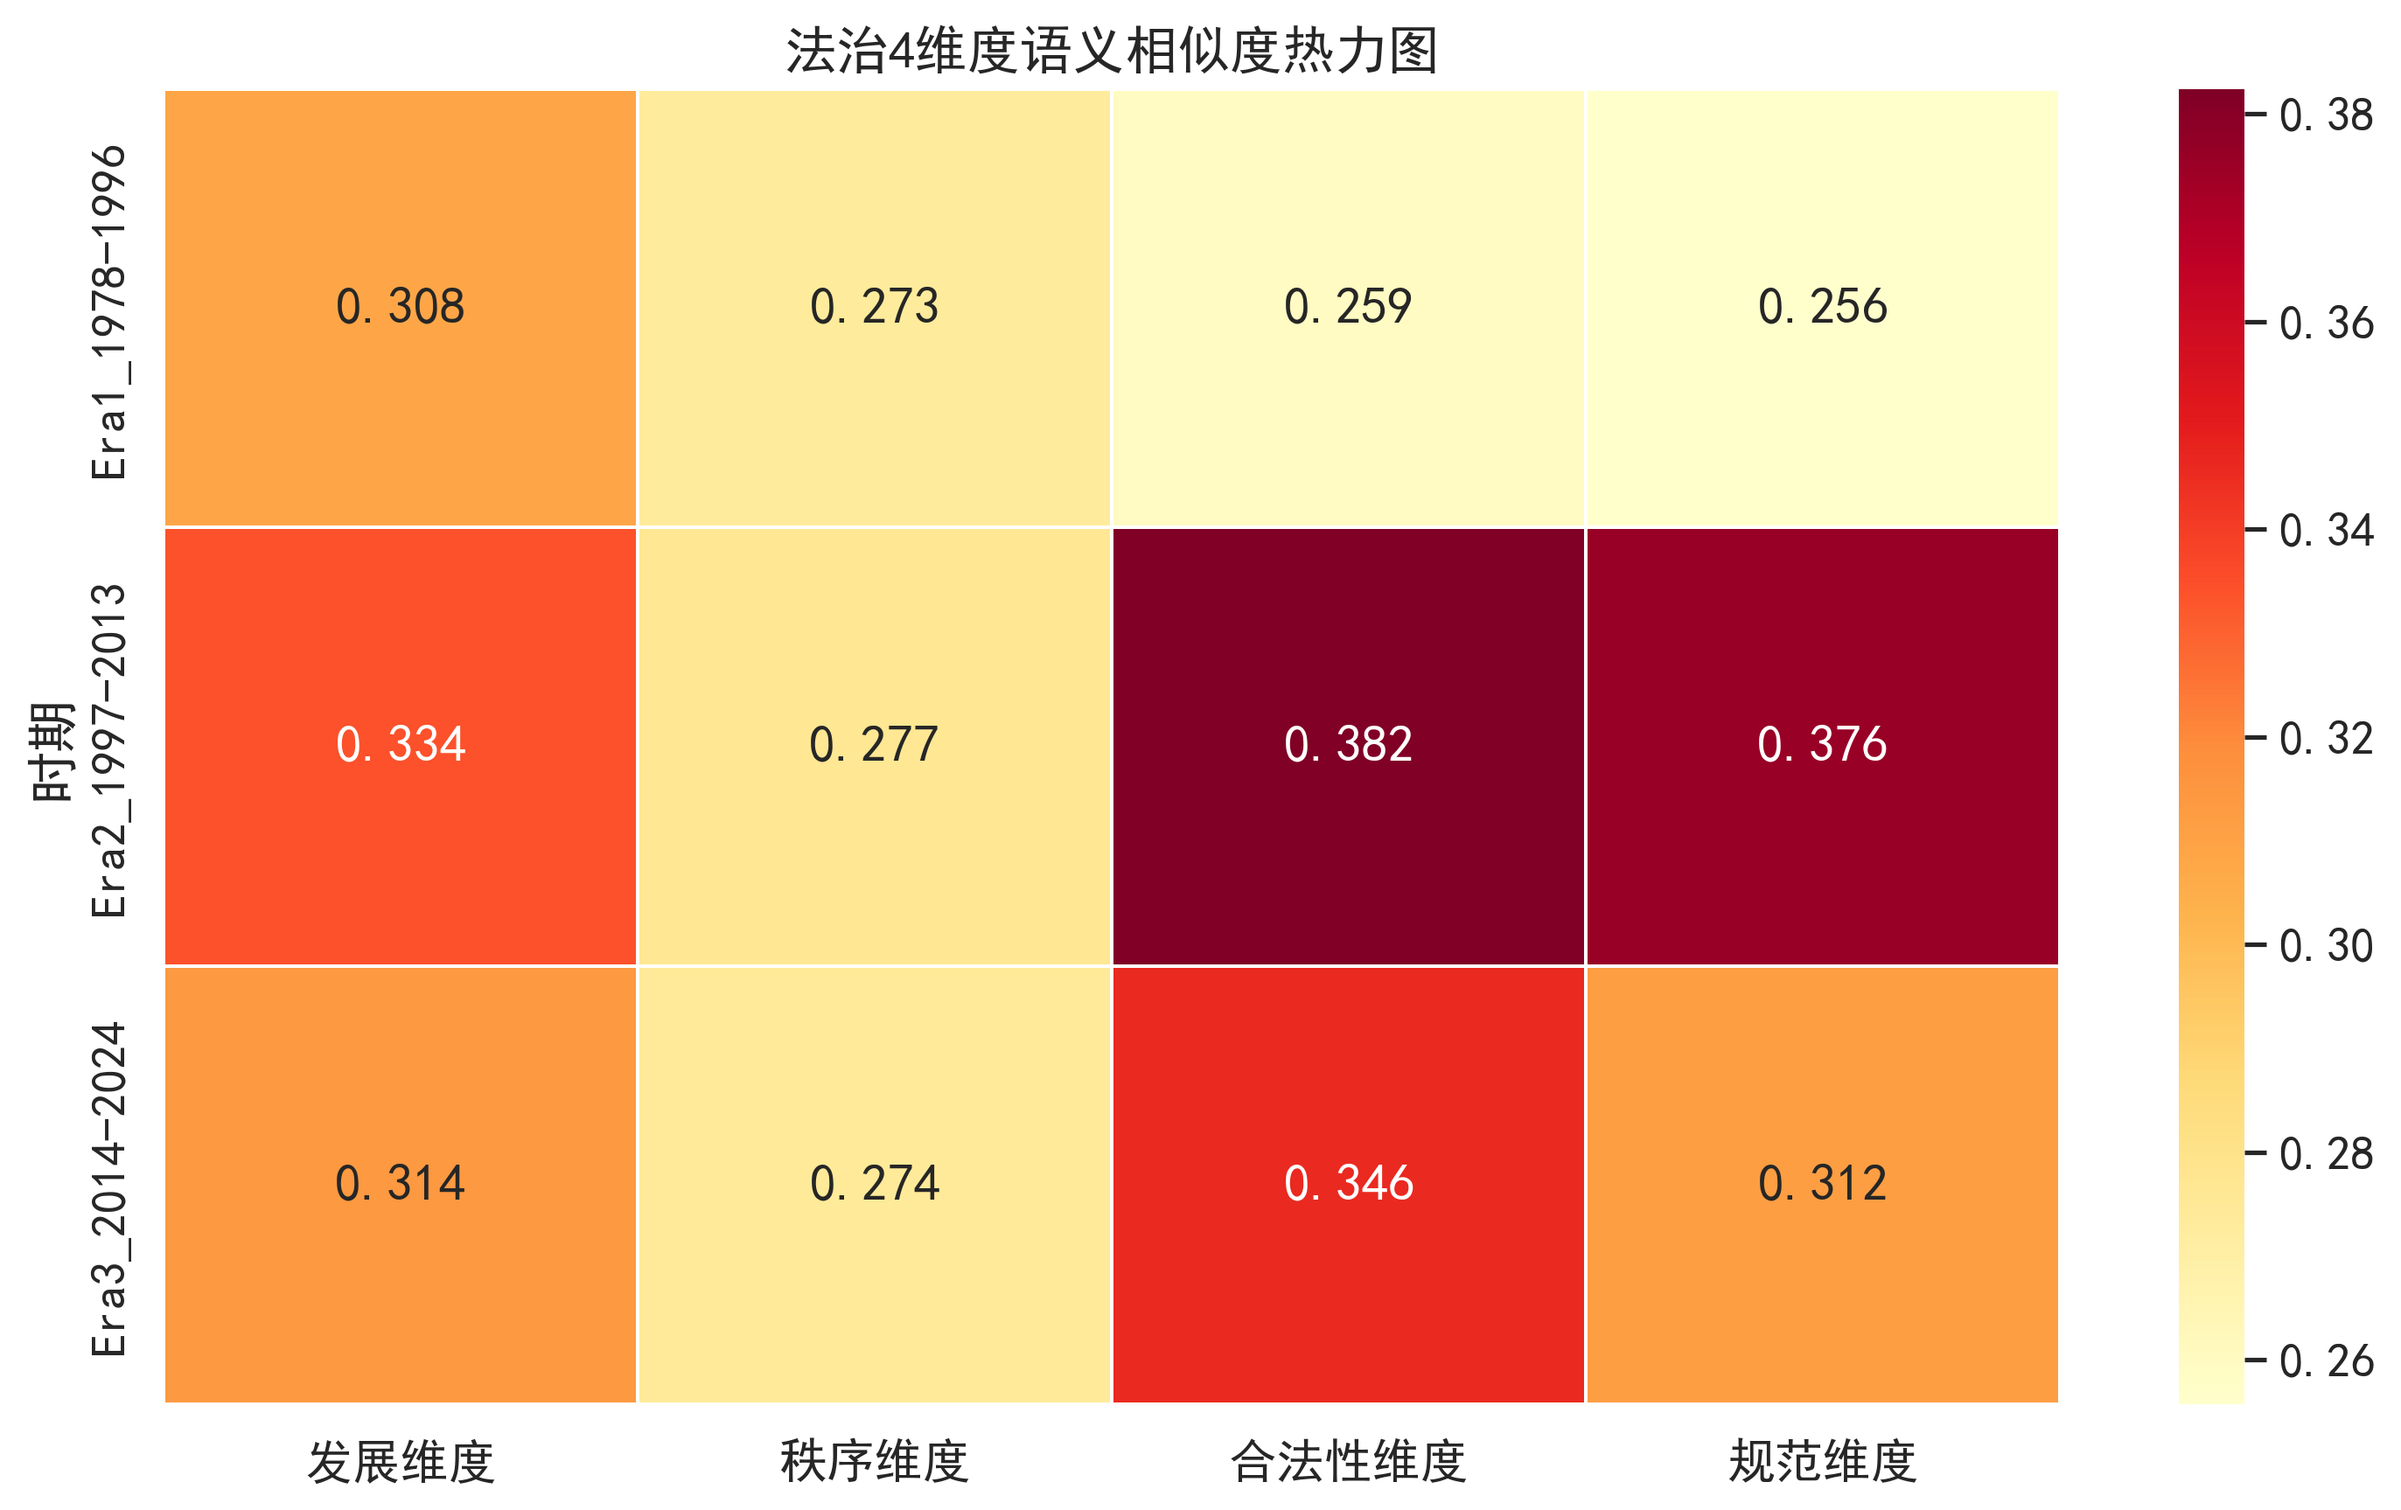
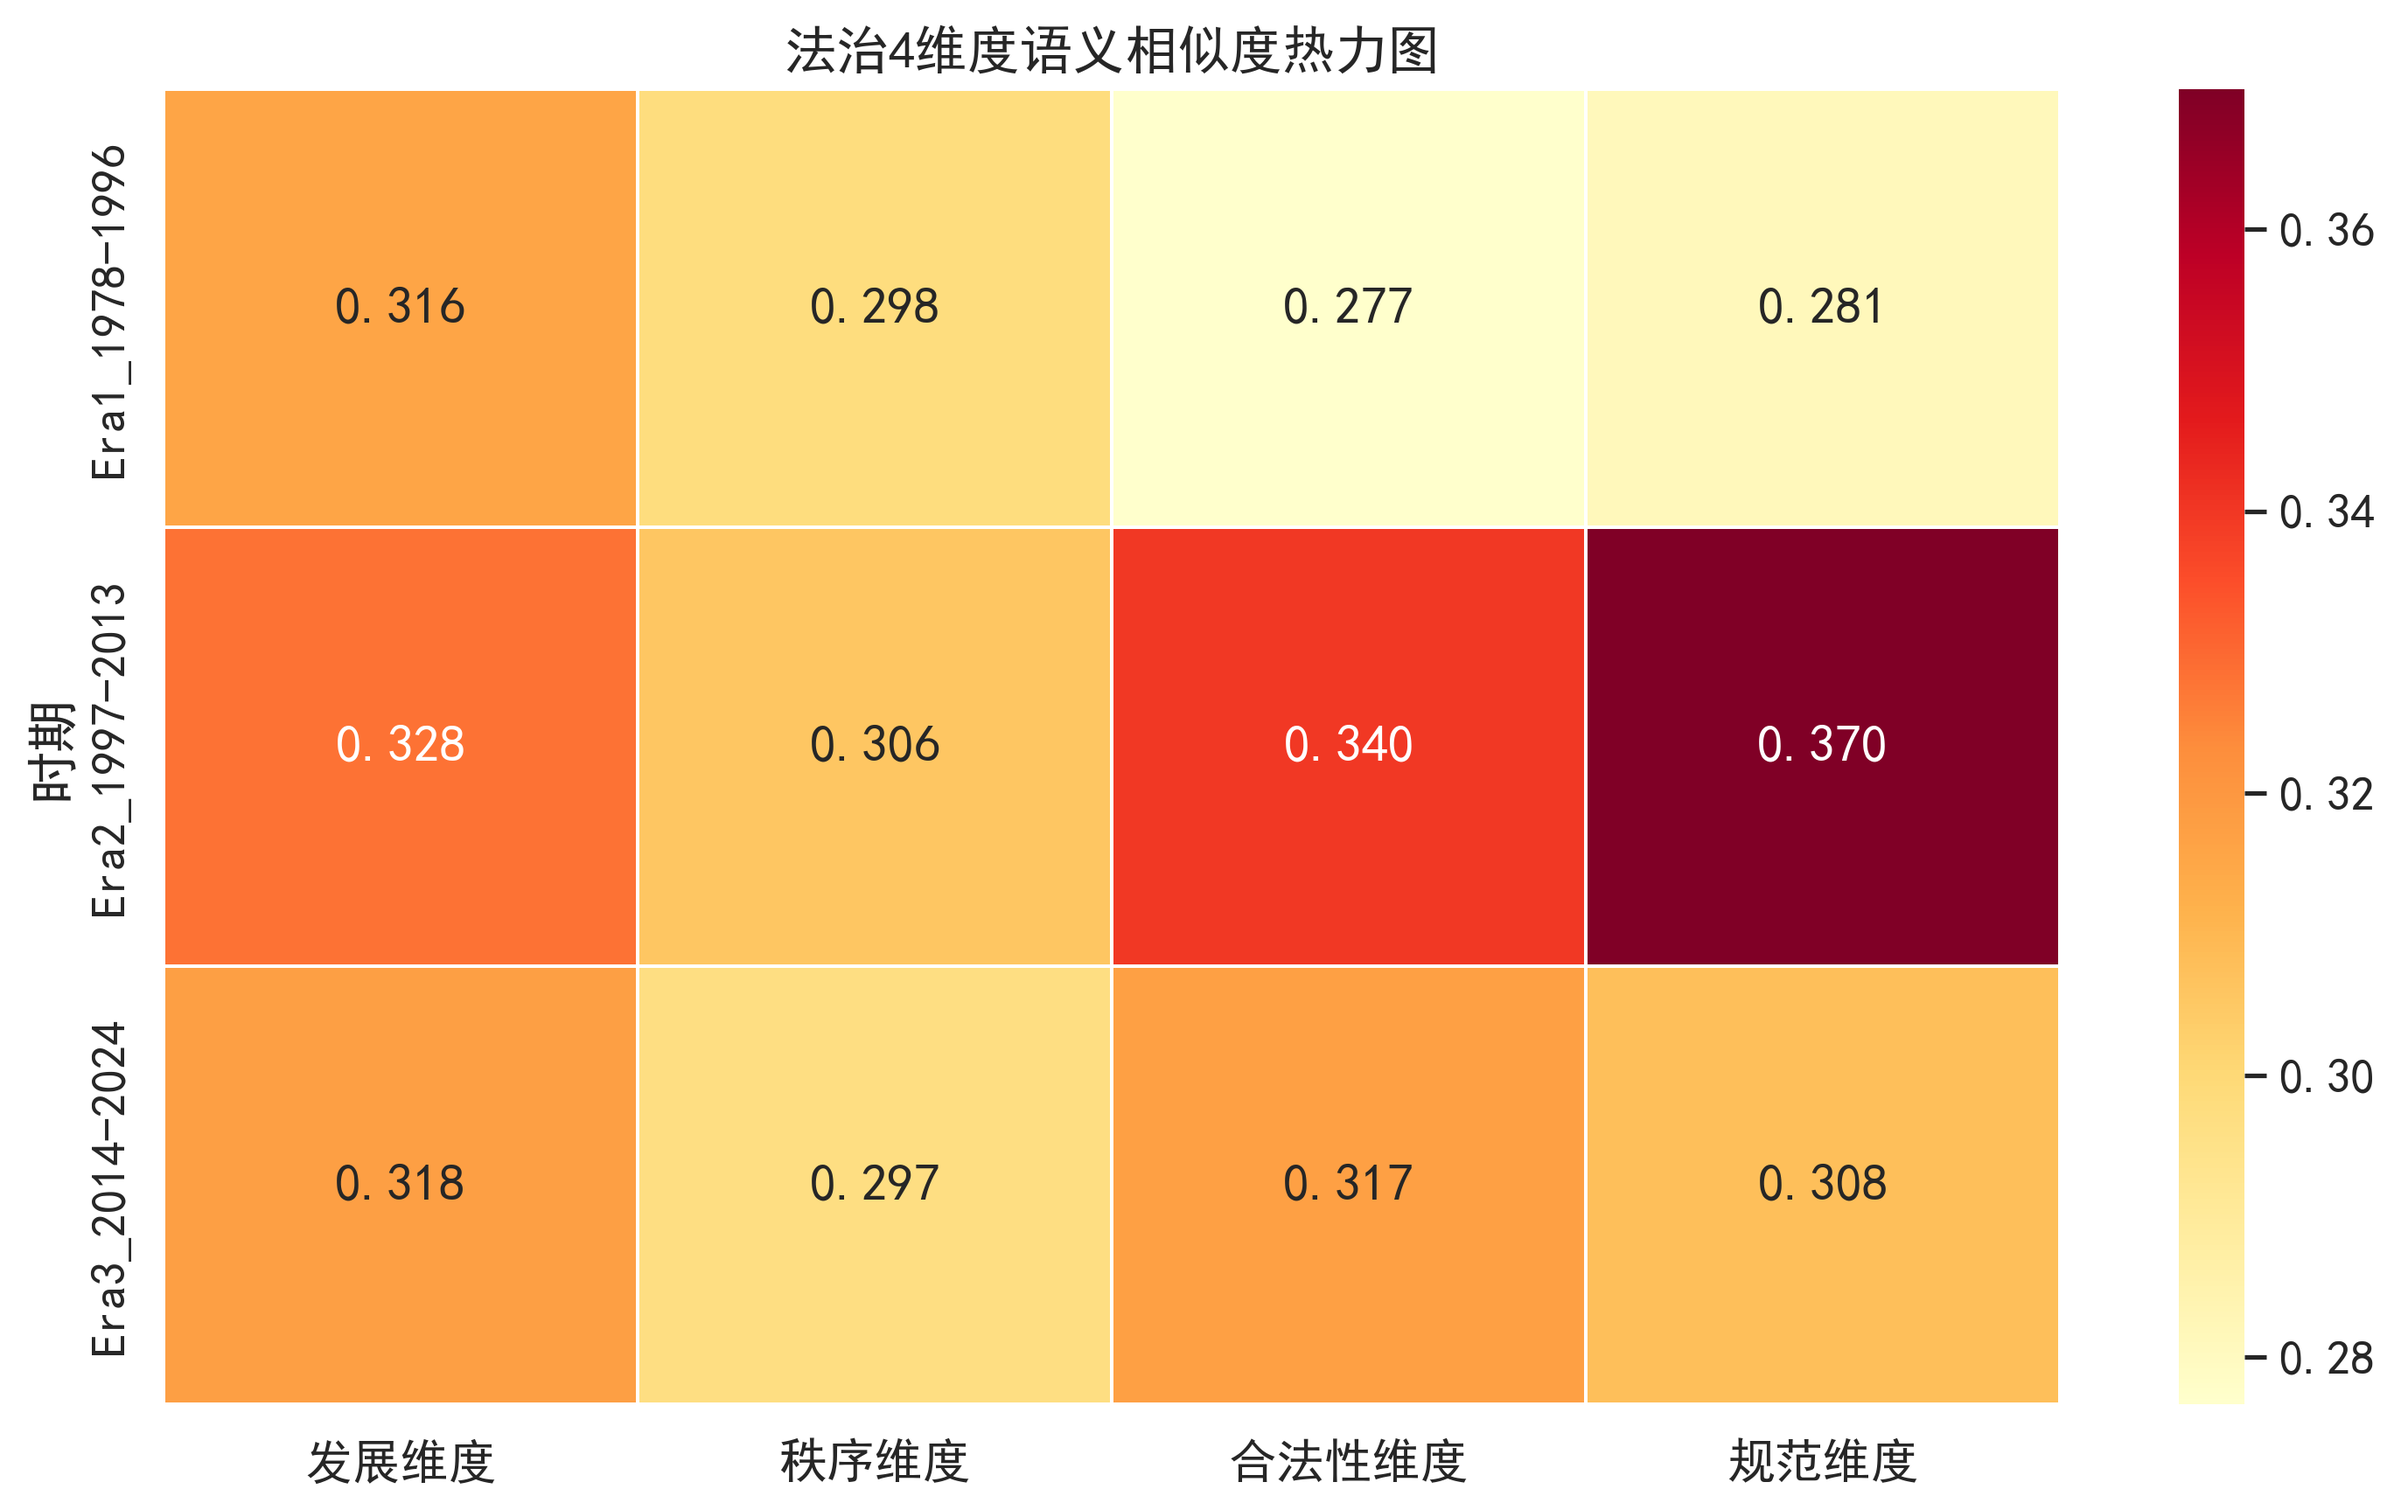
update expand topic word list

diff --git a/notebooks/dimension_analysis.py b/notebooks/dimension_analysis.py
@@ -402,8 +402,8 @@ def main():
     topic_word_dir = PROJECT_ROOT / "topic_word"
     
     # 2. 分析专家定义的维度词表
-    analyzer.run_analysis(topic_word_dir / "dimension_words_3d.txt")
-    analyzer.run_analysis(topic_word_dir / "dimension_words_4d.txt")
+    # analyzer.run_analysis(topic_word_dir / "dimension_words_3d.txt")
+    # analyzer.run_analysis(topic_word_dir / "dimension_words_4d.txt")
     
     # 3. 扩展4D词表并保存
     print("\n=== 扩展4D词表 ===")
@@ -412,8 +412,8 @@ def main():
         expanded_4d_words = analyzer.expand_dimension_words_by_similarity(
             dimension_words_4d, 
             target_word="法治",
-            similarity_threshold=0.3,
-            max_words_per_dim=50
+            similarity_threshold=0.25,
+            max_words_per_dim=100
         )
         
         # 保存扩展后的词表
